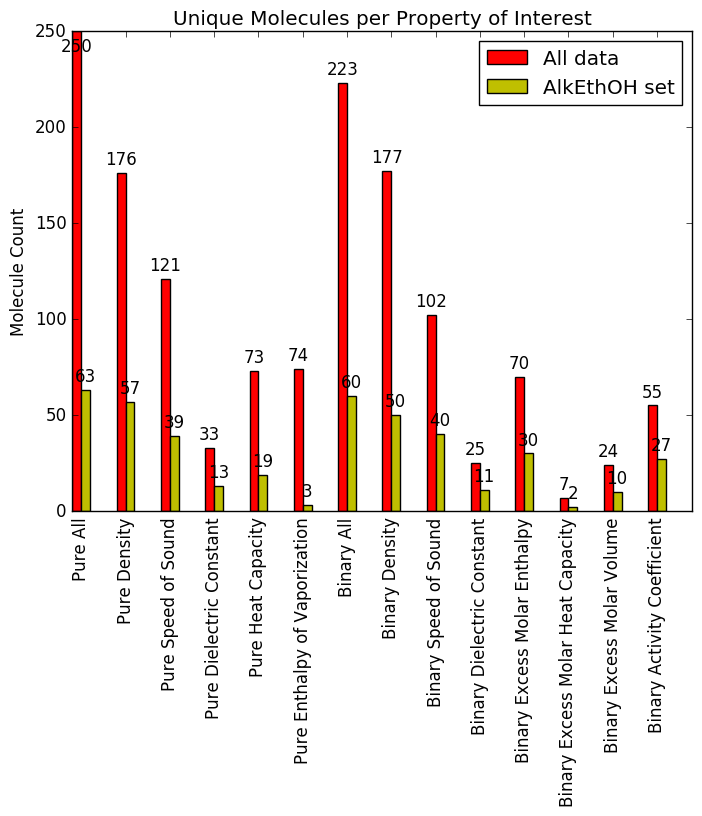
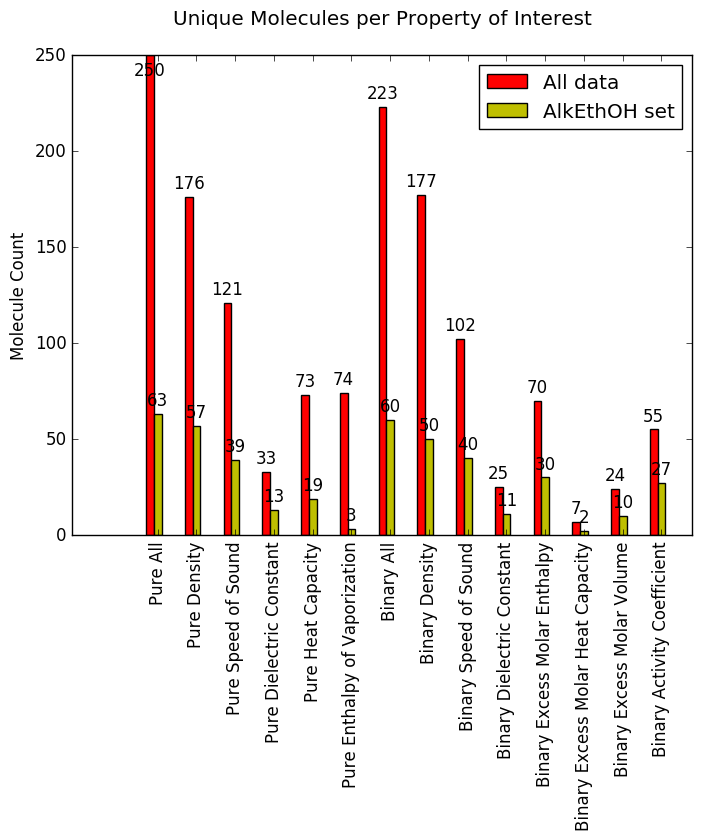
updated figs

Changed region(s): [[0.0, 0.0, 0.9872, 1.0]]

diff --git a/Python/googlestats.py b/Python/googlestats.py
@@ -227,15 +227,16 @@ ind = np.arange(N)  # the x locations for the groups
 width = 0.2      # the width of the bars
 
 fig, ax = plt.subplots()
-rects1 = ax.bar(ind, MolDat, width, color='r')
+rects1 = ax.bar(ind, MolDat, width, color='r', align='center')
 
-rects2 = ax.bar(ind + width, MolDatAlk, width, color='y')
+rects2 = ax.bar(ind + width, MolDatAlk, width, color='y', align='center')
 
 autolabel(rects1, ax)
 autolabel(rects2, ax)
 
 ax.set_ylabel('Molecule Count')
-ax.set_title('Unique Molecules per Property of Interest')
+ttl = ax.set_title('Unique Molecules per Property of Interest')
+ttl.set_position([.5, 1.05])
 ax.set_xticks(ind + width)
 xlabel = ax.set_xticklabels(('Pure All', 'Pure Density', 'Pure Speed of Sound', 'Pure Dielectric Constant', 'Pure Heat Capacity', 'Pure Enthalpy of Vaporization', 'Binary All', 'Binary Density', 'Binary Speed of Sound', 'Binary Dielectric Constant', 'Binary Excess Molar Enthalpy', 'Binary Excess Molar Heat Capacity', 'Binary Excess Molar Volume', 'Binary Activity Coefficient'), rotation=90)
 
@@ -251,15 +252,16 @@ ind = np.arange(N)  # the x locations for the groups
 width = 0.2      # the width of the bars
 
 fig, ax = plt.subplots()
-rects1 = ax.bar(ind, SpreadDat, width, color='r')
+rects1 = ax.bar(ind, SpreadDat, width, color='r', align='center')
 
-rects2 = ax.bar(ind + width, SpreadDatAlk, width, color='y')
+rects2 = ax.bar(ind + width, SpreadDatAlk, width, color='y', align='center')
 
 autolabel(rects1, ax)
 autolabel(rects2, ax)
 
 ax.set_ylabel('Molecule Count')
-ax.set_title('Coupled Pure and Binary Property Coverage')
+ttl = ax.set_title('Coupled Pure and Binary Property Coverage')
+ttl.set_position([.5, 1.05])
 ax.set_xticks(ind + width)
 xlabel = ax.set_xticklabels(('>=1 Pure and >=1 Binary', '>=2 Pure and >=2 Binary', '>=3 Pure and >=3 Binary', '>=4 Pure and >=4 Binary', '>=5 Pure and >=5 Binary', '>=5 Pure and >=6 Binary', '>=5 Pure and >=7 Binary'), rotation=90)
 
@@ -276,12 +278,13 @@ width = 0.2
 
 fig, ax = plt.subplots()
 
-rects1 = ax.bar(ind,CountDat,width,color='r')
+rects1 = ax.bar(ind,CountDat,width,color='r',align='center')
 
 autolabel(rects1,ax)
 
 ax.set_ylabel('Data Point Count')
-ax.set_title('Data point count per chemical environment in AlkEthOH filtered data')
+ttl = ax.set_title('Data point count per chemical environment in AlkEthOH filtered data')
+ttl.set_position([.5, 1.05])
 ax.set_xticks(ind+width)
 xlabel = ax.set_xticklabels(('Alkanes Pure','Alcohols Pure','Ethers Pure','Alkanes Binary','Alcohols Binary','Ethers Binary'), rotation=90)
 
@@ -293,12 +296,13 @@ width = 0.2
 
 fig, ax = plt.subplots()
 
-rects1 = ax.bar(ind,TypeDat,width,color='r')
+rects1 = ax.bar(ind,TypeDat,width,color='r',align='center')
 
 autolabel(rects1,ax)
 
 ax.set_ylabel('Molecule Count')
-ax.set_title('Molecules per chemical environment in AlkEthOH filtered data')
+ttl = ax.set_title('Molecules per chemical environment in AlkEthOH filtered data')
+ttl.set_position([.5, 1.05])
 ax.set_xticks(ind+width)
 xlabel = ax.set_xticklabels(('Alkanes Pure','Alcohols Pure','Ethers Pure','Alkanes Binary','Alcohols Binary','Ethers Binary'), rotation=90)
 
